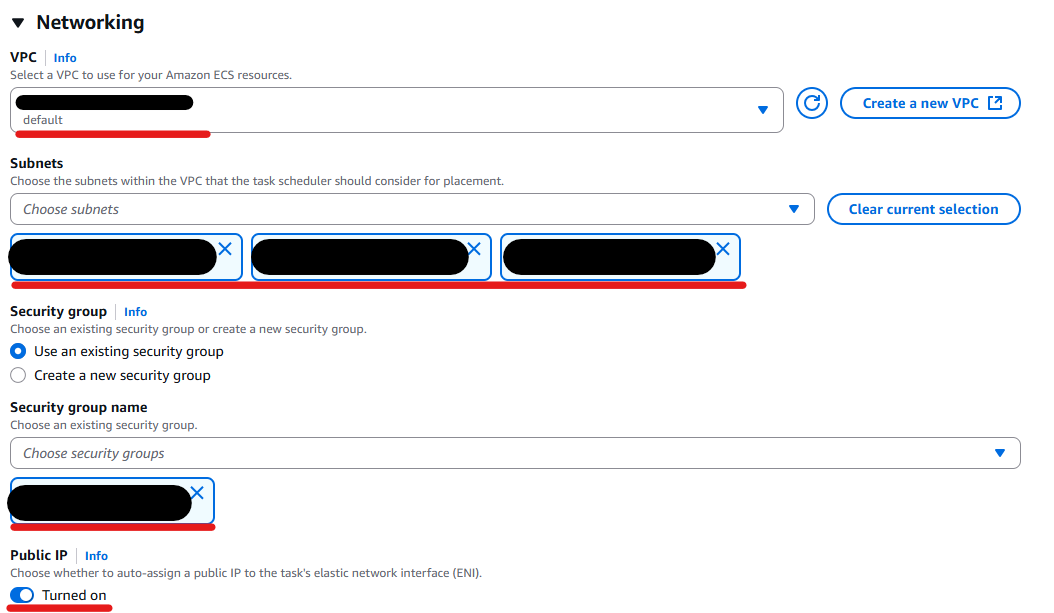
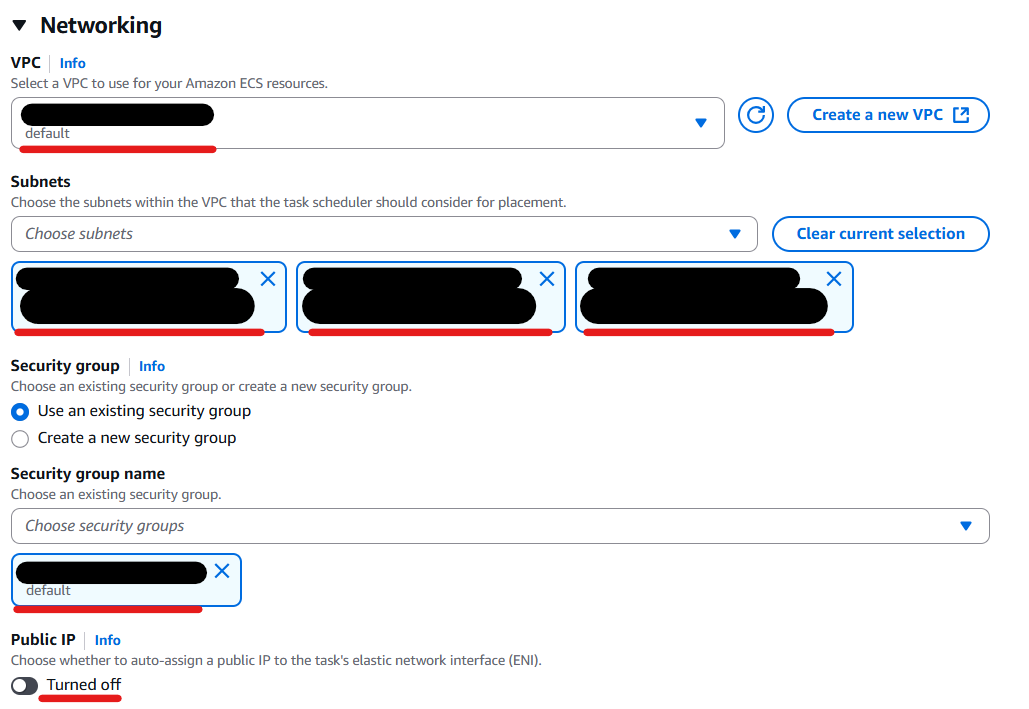
Update deploy-laravel-project-to-ecs-using-fargate

Changed region(s): [[0.0, 0.0, 0.964, 1.0]]

diff --git a/docs/_posts/aws/ecs/deploy-laravel-project-to-ecs-using-fargate/en/2025-07-31-deploy-laravel-to-ecs-using-fargate-en.md b/docs/_posts/aws/ecs/deploy-laravel-project-to-ecs-using-fargate/en/2025-07-31-deploy-laravel-to-ecs-using-fargate-en.md
@@ -13,6 +13,7 @@ This article explains how to deploy a Laravel project to Amazon ECS on AWS using
 - [Pushing a Docker image to an Amazon ECR private repository](https://docs.aws.amazon.com/AmazonECR/latest/userguide/docker-push-ecr-image.html)
 - [Learn how to create an Amazon ECS Linux task for the Fargate launch type](https://docs.aws.amazon.com/AmazonECS/latest/developerguide/getting-started-fargate.html)
 - [Amazon ECS task execution IAM role](https://docs.aws.amazon.com/AmazonECS/latest/developerguide/task_execution_IAM_role.html)
+- [Amazon ECR interface VPC endpoints (AWS PrivateLink)](https://docs.aws.amazon.com/AmazonECR/latest/userguide/vpc-endpoints.html)
 
 ## Prerequisites
 - An AWS account
@@ -28,6 +29,11 @@ For more information, follow [this instruction](/aws/cli/configure-sso-session-a
 - Docker Engine 26.0.0
 - Laravel 11
 
+## Architecture Diagram
+This is an architecture diagram for the system we'll build.
+
+![Architecture Diagram](/assets/images/{{ page.categories[0] }}/{{ page.categories[1] }}/{{ page.page_name }}/image37.png "Architecture Diagram")
+
 ## Deployment Steps
 1. [Create Laravel Project](#1-create-laravel-project)
 2. [Create Repository](#2-create-repository)
@@ -35,8 +41,11 @@ For more information, follow [this instruction](/aws/cli/configure-sso-session-a
 4. [Create Cluster](#4-create-cluster)
 5. [Create ECS Task Execution IAM Role](#5-create-ecs-task-execution-iam-role)
 6. [Create Task Definition](#6-create-task-definition)
-7. [Create Service](#7-create-service)
-8. [Verify Laravel Project](#8-verify-laravel-project)
+7. [Create Security Group](#7-create-security-group)
+8. [Create VPC Endpoints](#8-create-vpc-endpoints)
+9. [Create Application Load Balancer](#9-create-application-load-balancer)
+10. [Create Service](#10-create-service)
+11. [Verify Laravel Project](#11-verify-laravel-project)
 
 ## 1. Create Laravel Project
 Create a Laravel project.  
@@ -230,8 +239,123 @@ Add the "portMapping" and "command" items.
 
 Click the "Create" button.
 
-## 7. Create Service
-Return to your clusters screen on AWS Management Console.  
+## 7. Create Security Group
+Go to [VPC on AWS Management Console](https://console.aws.amazon.com/vpc/), then click "Security groups".
+
+![VPC on AWS Management Console](/assets/images/{{ page.categories[0] }}/{{ page.categories[1] }}/{{ page.page_name }}/image36.png "VPC on AWS Management Console")
+
+Click "Create security group".  
+Create the following security groups.
+
+### For private
+
+Inbound rules:
+
+| Type | Port range | Source | Note |
+|------|------------|--------|------|
+| All traffic | All | This security group ID | To access VPC endpoints. |
+| All traffic | All | Security group ID for public | To allow the Load Balancer to access ECS tasks. |
+
+Outbound rules:
+
+| Type | Port range | Source | Note |
+|------|------------|--------|------|
+| HTTPS | 443 | 0.0.0.0/0 | To pull ECR images. |
+
+### For public
+
+Inbound rules:
+
+| Type | Port range | Source | Note |
+|------|------------|--------|------|
+| HTTP | 80 | 0.0.0.0/0 | To allow access to the Load Balancer. |
+
+Outbound rules:
+
+| Type | Port range | Source | Note |
+|------|------------|--------|------|
+| All traffic | All | Security group ID for private | To allow access to ECS tasks. |
+
+## 8. Create VPC Endpoints
+To pull ECR images from ECS tasks in private subnets.  
+In this example, the following three endpoints are required.
+
+- `com.amazonaws.region.ecr.dkr`
+- `com.amazonaws.region.ecr.api`
+- `com.amazonaws.region.s3` (Gateway)  
+This is because ECR uses Amazon S3 to store image layers.
+
+Go to [VPC on AWS Management Console](https://console.aws.amazon.com/vpc/).  
+Click "Endpoints".
+
+![VPC on AWS Management Console](/assets/images/{{ page.categories[0] }}/{{ page.categories[1] }}/{{ page.page_name }}/image32.png "VPC on AWS Management Console")
+
+Click "Create endpoint".
+
+![Endpoints](/assets/images/{{ page.categories[0] }}/{{ page.categories[1] }}/{{ page.page_name }}/image33.png "Endpoints")
+
+Enter a name and select "AWS services" for the Type.
+
+![Endpoint creation1](/assets/images/{{ page.categories[0] }}/{{ page.categories[1] }}/{{ page.page_name }}/image34.png "Endpoint creation1")
+
+Choose `com.amazonaws.region.ecr.dkr`.
+
+![Endpoint creation2](/assets/images/{{ page.categories[0] }}/{{ page.categories[1] }}/{{ page.page_name }}/image35.png "Endpoint creation2")
+
+Select your VPC, private subnets and security group for private.
+
+Click "Create endpoint".
+
+Repeat the same steps for the others.
+
+## 9. Create Application Load Balancer
+Create an Application Load Balancer to distribute incoming traffic across Fargate containers.
+
+Go to [EC2 on AWS Management Console](https://console.aws.amazon.com/ec2/).  
+Click "Load Balancers".
+
+![EC2 on AWS Management Console](/assets/images/{{ page.categories[0] }}/{{ page.categories[1] }}/{{ page.page_name }}/image21.png "EC2 on AWS Management Console")
+
+Click "Create Application Load Balancer".
+
+![Load balancers on AWS Management Console](/assets/images/{{ page.categories[0] }}/{{ page.categories[1] }}/{{ page.page_name }}/image22.png "Load balancers on AWS Management Console")
+
+Enter a Load Balancer name, choose "Internet-facing" for the Scheme, and select "IPv4" for the IP address type.
+
+![Load balancer creation1](/assets/images/{{ page.categories[0] }}/{{ page.categories[1] }}/{{ page.page_name }}/image23.png "Load balancer creation1")
+
+Select your VPC, public subnets and security group for public.
+
+Then click "Create target group".
+
+![Load balancer creation2](/assets/images/{{ page.categories[0] }}/{{ page.categories[1] }}/{{ page.page_name }}/image24.png "Load balancer creation2")
+
+Choose "IP addresses" as the target type.
+
+![Target group creation1](/assets/images/{{ page.categories[0] }}/{{ page.categories[1] }}/{{ page.page_name }}/image25.png "Target group creation1")
+
+Enter "Target group name" and specify "HTTP" for the Protocol and "80" for the Port.  
+Select "IPv4" for the IP address type.
+
+![Target group creation2](/assets/images/{{ page.categories[0] }}/{{ page.categories[1] }}/{{ page.page_name }}/image26.png "Target group creation2")
+
+Select your VPC.
+
+Configure the Health checks as follows.
+
+![Target group creation3](/assets/images/{{ page.categories[0] }}/{{ page.categories[1] }}/{{ page.page_name }}/image27.png "Target group creation3")
+
+Click "Next", then click "Create target group".
+
+Return to the Load Balancer creation screen.  
+Select the target group you just created as the listener’s target.
+
+![Load balancer creation3](/assets/images/{{ page.categories[0] }}/{{ page.categories[1] }}/{{ page.page_name }}/image28.png "Load balancer creation3")
+
+Click "Create load balancer".
+
+## 10. Create Service
+Return to your [clusters screen on AWS Management Console](https://console.aws.amazon.com/ecs/clusters/).  
 Click your cluster.
 
 ![Clusters on AWS Management Console](/assets/images/{{ page.categories[0] }}/{{ page.categories[1] }}/{{ page.page_name }}/image14.png "Clusters on AWS Management Console")
@@ -240,32 +364,30 @@ Click the "Create" button.
 
 ![Services on AWS Management Console](/assets/images/{{ page.categories[0] }}/{{ page.categories[1] }}/{{ page.page_name }}/image15.png "Services on AWS Management Console")
 
-Enter the task definition family, then the latest revision and service name will be automatically populated.  
+Enter the task definition family; the latest revision and service name will be populated automatically.  
 In this example, the service name was changed as follows.
 
 ![Service Creation](/assets/images/{{ page.categories[0] }}/{{ page.categories[1] }}/{{ page.page_name }}/image16.png "Service Creation")
 
-Select your VPC, subnets and security group.  
-In this example, I chose public subnets and a security group which allows your device to access this service to see a Laravel web page and allows this ECS service to pull images from the ECR repository.  
-I configured inbound and outbound rules that allow any IP address to access via HTTP and an outbound rule that allows any IP address to access via HTTPS.  
-Then turn the "Public IP" button on.
+Select your VPC, private subnets and security group for private.
+
+Then turn the "Public IP" button off.
 
 ![Network on Service Creation](/assets/images/{{ page.categories[0] }}/{{ page.categories[1] }}/{{ page.page_name }}/image17.png "Network on Service Creation")
 
+Then configure the Load balancing.  
+Specify the load balancer you created.
+
+![Load balancing on Service Creation1](/assets/images/{{ page.categories[0] }}/{{ page.categories[1] }}/{{ page.page_name }}/image30.png "Load balancing on Service Creation1")
+
+![Load balancing on Service Creation2](/assets/images/{{ page.categories[0] }}/{{ page.categories[1] }}/{{ page.page_name }}/image31.png "Load balancing on Service Creation2")
+
 Click the "Create" button.
 
-## 8. Verify Laravel Project
-Navigate to your cluster and click your service.
+## 11. Verify Laravel Project
+Retrieve the DNS name from the "Details" section of your load balancer.
 
-![Services on your cluster](/assets/images/{{ page.categories[0] }}/{{ page.categories[1] }}/{{ page.page_name }}/image18.png "Services on your cluster")
-
-Click a task running.
-
-![Tasks on your service](/assets/images/{{ page.categories[0] }}/{{ page.categories[1] }}/{{ page.page_name }}/image19.png "Tasks on your service")
-
-Retrieve the Public IP address from the "Configuration" section of the task details.
-
-Access `http://<Your task Public IP>` in your browser.  
+Access `http://<Your load balancer DNS name>` in your browser (e.g. `http://laravel-project-load-balancer-xxxxx.xxxxx.elb.amazonaws.com`).  
 If you see the following web page, your Laravel project was successfully deployed to ECS.
 
 ![Laravel project web page](/assets/images/{{ page.categories[0] }}/{{ page.categories[1] }}/{{ page.page_name }}/image20.png "Laravel project web page")
